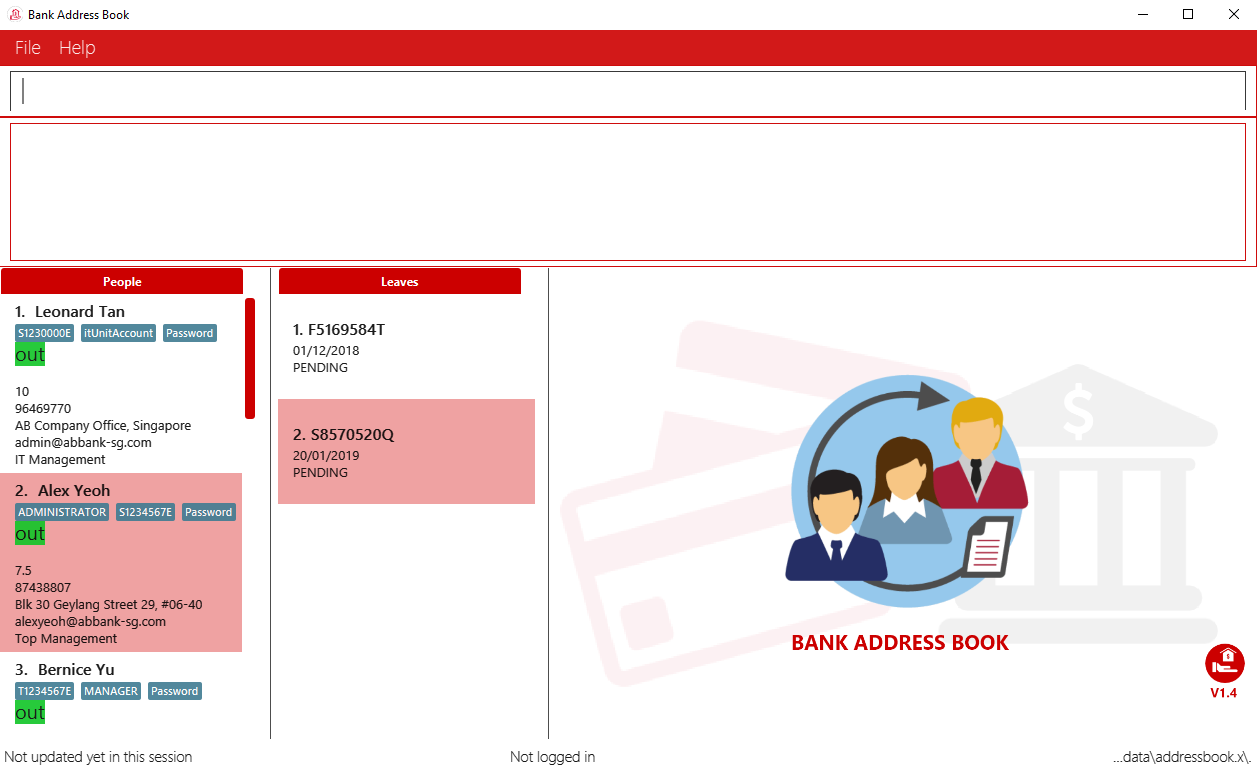
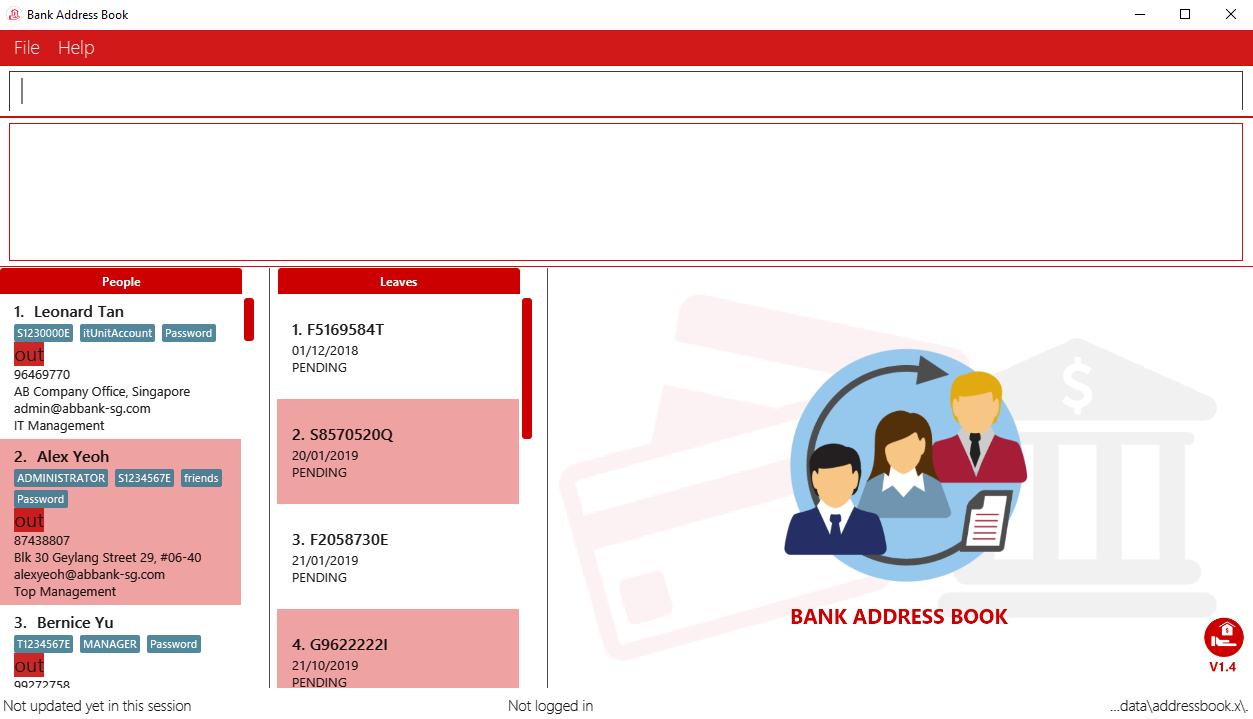
Updated Ui.png, dev guide and added more leave sample data

diff --git a/src/main/java/seedu/address/model/util/SampleDataUtil.java b/src/main/java/seedu/address/model/util/SampleDataUtil.java
@@ -192,7 +192,21 @@ public class SampleDataUtil {
             new Leave(new EmployeeId("F5169584T"), new Date("01/12/2018"),
                 new Approval("PENDING"), new PriorityLevel(3)),
             new Leave(new EmployeeId("S8570520Q"), new Date("20/01/2019"),
-                new Approval("PENDING"), new PriorityLevel(3))
+                new Approval("PENDING"), new PriorityLevel(3)),
+            new Leave(new EmployeeId("F2058730E"), new Date("21/01/2019"),
+                new Approval("PENDING"), new PriorityLevel(3)),
+            new Leave(new EmployeeId("G9622222I"), new Date("21/10/2019"),
+                new Approval("PENDING"), new PriorityLevel(3)),
+            new Leave(new EmployeeId("S4988580K"), new Date("28/01/2019"),
+                new Approval("PENDING"), new PriorityLevel(3)),
+            new Leave(new EmployeeId("S9576541J"), new Date("25/01/2019"),
+                new Approval("PENDING"), new PriorityLevel(3)),
+            new Leave(new EmployeeId("G1238500E"), new Date("25/02/2019"),
+                new Approval("PENDING"), new PriorityLevel(3)),
+            new Leave(new EmployeeId("S9726800I"), new Date("25/02/2019"),
+                new Approval("PENDING"), new PriorityLevel(3)),
+
+
         };
     }
 
